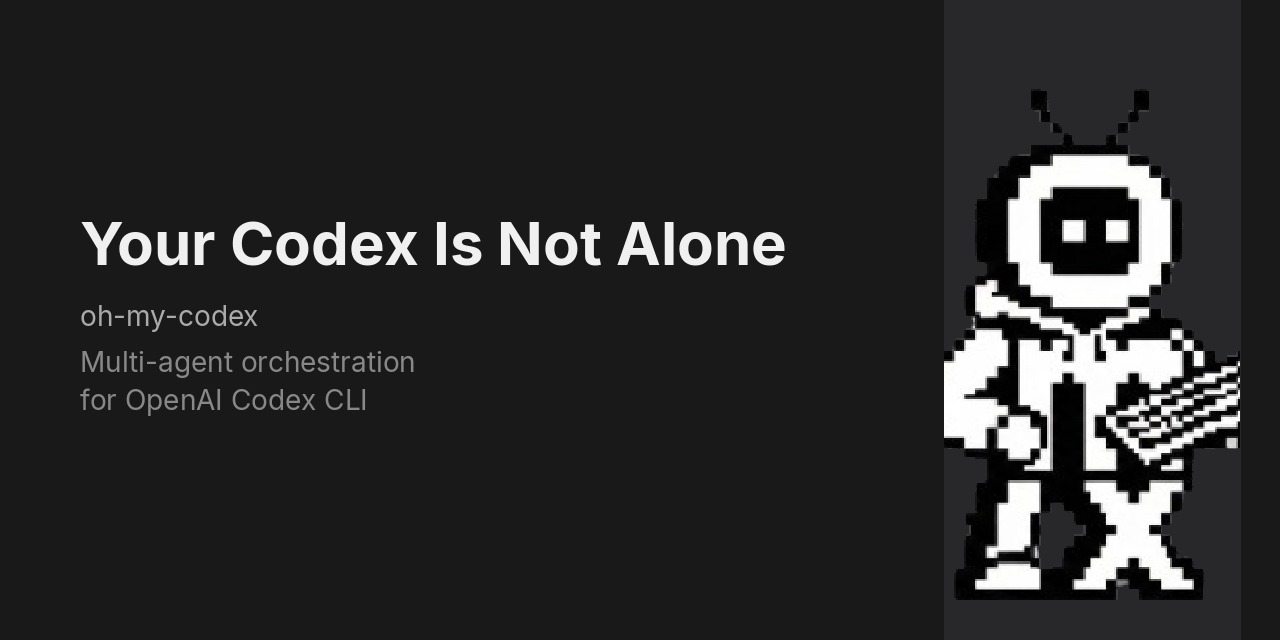
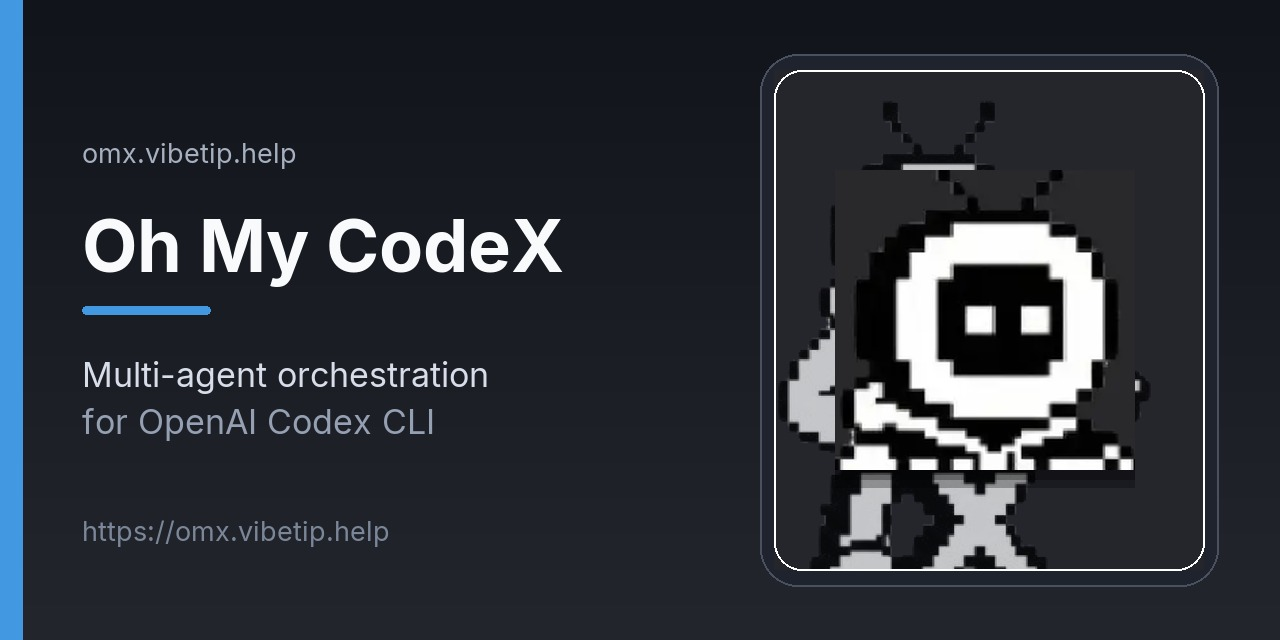
docs: update social preview thumbnails

diff --git a/apps/claudecode/src/app/layout.tsx b/apps/claudecode/src/app/layout.tsx
@@ -7,6 +7,28 @@ export const metadata: Metadata = {
   title: 'Oh My ClaudeCode — Docs',
   description:
     'Official documentation for oh-my-claudecode, a multi-agent orchestration layer for Claude Code.',
+  openGraph: {
+    title: 'Oh My ClaudeCode — Docs',
+    description:
+      'Official documentation for oh-my-claudecode, a multi-agent orchestration layer for Claude Code.',
+    type: 'website',
+    url: 'https://omc.vibetip.help',
+    images: [
+      {
+        url: 'https://omc.vibetip.help/images/omc-social-preview.jpg',
+        width: 1280,
+        height: 640,
+        alt: 'Oh My ClaudeCode documentation preview',
+      },
+    ],
+  },
+  twitter: {
+    card: 'summary_large_image',
+    title: 'Oh My ClaudeCode — Docs',
+    description:
+      'Official documentation for oh-my-claudecode, a multi-agent orchestration layer for Claude Code.',
+    images: ['https://omc.vibetip.help/images/omc-social-preview.jpg'],
+  },
 };
 
 export default function RootLayout({ children }: { children: ReactNode }) {

diff --git a/apps/codex/src/app/layout.tsx b/apps/codex/src/app/layout.tsx
@@ -7,6 +7,28 @@ export const metadata: Metadata = {
   title: 'Oh My CodeX — Docs',
   description:
     'Official documentation for oh-my-codex, a multi-agent orchestration layer for OpenAI Codex CLI.',
+  openGraph: {
+    title: 'Oh My CodeX — Docs',
+    description:
+      'Official documentation for oh-my-codex, a multi-agent orchestration layer for OpenAI Codex CLI.',
+    type: 'website',
+    url: 'https://omx.vibetip.help',
+    images: [
+      {
+        url: 'https://omx.vibetip.help/images/omx-social-preview.jpg',
+        width: 1280,
+        height: 640,
+        alt: 'Oh My CodeX documentation preview',
+      },
+    ],
+  },
+  twitter: {
+    card: 'summary_large_image',
+    title: 'Oh My CodeX — Docs',
+    description:
+      'Official documentation for oh-my-codex, a multi-agent orchestration layer for OpenAI Codex CLI.',
+    images: ['https://omx.vibetip.help/images/omx-social-preview.jpg'],
+  },
   icons: {
     // Keep the browser icon aligned with the public OMX logo asset.
     icon: '/icon.png',

diff --git a/apps/gajae-code/src/app/layout.tsx b/apps/gajae-code/src/app/layout.tsx
@@ -7,6 +7,28 @@ export const metadata: Metadata = {
   title: 'Gajae-Code - Docs',
   description:
     'Official documentation for Gajae-Code, a red-claw coding-agent harness (gjc).',
+  openGraph: {
+    title: 'Gajae-Code - Docs',
+    description:
+      'Official documentation for Gajae-Code, a red-claw coding-agent harness (gjc).',
+    type: 'website',
+    url: 'https://gjc.vibetip.help',
+    images: [
+      {
+        url: 'https://gjc.vibetip.help/images/gjc-social-preview.jpg',
+        width: 1280,
+        height: 640,
+        alt: 'Gajae-Code documentation preview',
+      },
+    ],
+  },
+  twitter: {
+    card: 'summary_large_image',
+    title: 'Gajae-Code - Docs',
+    description:
+      'Official documentation for Gajae-Code, a red-claw coding-agent harness (gjc).',
+    images: ['https://gjc.vibetip.help/images/gjc-social-preview.jpg'],
+  },
   icons: {
     icon: '/icon.png',
     shortcut: '/icon.png',

diff --git a/apps/lzx/src/app/layout.tsx b/apps/lzx/src/app/layout.tsx
@@ -7,6 +7,28 @@ export const metadata: Metadata = {
   title: 'LazyCodex - Docs',
   description:
     'Official documentation for LazyCodex (LZX), the OmO agent harness packaged for Codex.',
+  openGraph: {
+    title: 'LazyCodex - Docs',
+    description:
+      'Official documentation for LazyCodex (LZX), the OmO agent harness packaged for Codex.',
+    type: 'website',
+    url: 'https://lzx.vibetip.help',
+    images: [
+      {
+        url: 'https://lzx.vibetip.help/images/lzx-social-preview.jpg',
+        width: 1280,
+        height: 640,
+        alt: 'LazyCodex documentation preview',
+      },
+    ],
+  },
+  twitter: {
+    card: 'summary_large_image',
+    title: 'LazyCodex - Docs',
+    description:
+      'Official documentation for LazyCodex (LZX), the OmO agent harness packaged for Codex.',
+    images: ['https://lzx.vibetip.help/images/lzx-social-preview.jpg'],
+  },
   icons: {
     icon: '/icon.png',
     shortcut: '/icon.png',

diff --git a/apps/openagent/src/app/layout.tsx b/apps/openagent/src/app/layout.tsx
@@ -7,6 +7,28 @@ export const metadata: Metadata = {
   title: 'Oh My OpenAgent - Docs',
   description:
     'Official documentation for Oh My OpenAgent, a multi-model orchestration harness for OpenCode.',
+  openGraph: {
+    title: 'Oh My OpenAgent - Docs',
+    description:
+      'Official documentation for Oh My OpenAgent, a multi-model orchestration harness for OpenCode.',
+    type: 'website',
+    url: 'https://omo.vibetip.help',
+    images: [
+      {
+        url: 'https://omo.vibetip.help/images/omo-social-preview.jpg',
+        width: 1280,
+        height: 640,
+        alt: 'Oh My OpenAgent documentation preview',
+      },
+    ],
+  },
+  twitter: {
+    card: 'summary_large_image',
+    title: 'Oh My OpenAgent - Docs',
+    description:
+      'Official documentation for Oh My OpenAgent, a multi-model orchestration harness for OpenCode.',
+    images: ['https://omo.vibetip.help/images/omo-social-preview.jpg'],
+  },
   icons: {
     icon: '/icon.svg',
     shortcut: '/icon.svg',

diff --git a/scripts/make-social-previews.py b/scripts/make-social-previews.py
@@ -1,0 +1,170 @@
+#!/usr/bin/env python3
+"""Generate social preview thumbnails for all docs apps.
+
+The output images are shared by OpenGraph/Twitter metadata and the docs index
+pages. They intentionally use app-local public assets so the cards stay
+reproducible after upstream asset syncs.
+"""
+
+from __future__ import annotations
+
+from dataclasses import dataclass
+from pathlib import Path
+
+from PIL import Image, ImageDraw, ImageFont, ImageOps
+
+
+ROOT = Path(__file__).resolve().parent.parent
+FONT_DIR = ROOT / "apps" / "codex" / "scripts" / "fonts"
+W, H = 1280, 640
+
+
+@dataclass(frozen=True)
+class Card:
+    app: str
+    output: str
+    title: str
+    kicker: str
+    line1: str
+    line2: str
+    accent: tuple[int, int, int]
+    icon: str
+    image: str | None = None
+    url: str = ""
+
+
+CARDS = [
+    Card(
+        app="codex",
+        output="omx-social-preview.jpg",
+        title="Oh My CodeX",
+        kicker="omx.vibetip.help",
+        line1="Multi-agent orchestration",
+        line2="for OpenAI Codex CLI",
+        accent=(66, 153, 225),
+        icon="public/logo.png",
+        image="public/images/omx-character.jpg",
+        url="https://omx.vibetip.help",
+    ),
+    Card(
+        app="claudecode",
+        output="omc-social-preview.jpg",
+        title="Oh My ClaudeCode",
+        kicker="omc.vibetip.help",
+        line1="Multi-agent orchestration",
+        line2="for Claude Code",
+        accent=(217, 119, 87),
+        icon="public/logo.png",
+        image="public/images/omc-character.jpg",
+        url="https://omc.vibetip.help",
+    ),
+    Card(
+        app="openagent",
+        output="omo-social-preview.jpg",
+        title="Oh My OpenAgent",
+        kicker="omo.vibetip.help",
+        line1="Multi-model orchestration",
+        line2="for OpenCode and Codex Light",
+        accent=(115, 98, 255),
+        icon="public/images/omo-logo.png",
+        url="https://omo.vibetip.help",
+    ),
+    Card(
+        app="gajae-code",
+        output="gjc-social-preview.jpg",
+        title="Gajae-Code",
+        kicker="gjc.vibetip.help",
+        line1="Red-claw coding-agent harness",
+        line2="for crisp plans and durable verification",
+        accent=(229, 72, 77),
+        icon="public/images/character.png",
+        url="https://gjc.vibetip.help",
+    ),
+    Card(
+        app="lzx",
+        output="lzx-social-preview.jpg",
+        title="LazyCodex",
+        kicker="lzx.vibetip.help",
+        line1="OmO Light Edition",
+        line2="for Codex planning and verification",
+        accent=(34, 197, 94),
+        icon="public/logo.png",
+        image="public/images/hero.png",
+        url="https://lzx.vibetip.help",
+    ),
+]
+
+
+def font(name: str, size: int) -> ImageFont.FreeTypeFont:
+    return ImageFont.truetype(str(FONT_DIR / name), size)
+
+
+TITLE = font("Inter-Bold.ttf", 72)
+KICKER = font("Inter-Regular.ttf", 27)
+BODY = font("Inter-Regular.ttf", 34)
+
+
+def cover_image(path: Path, size: tuple[int, int]) -> Image.Image:
+    src = Image.open(path).convert("RGBA")
+    return ImageOps.fit(src, size, method=Image.Resampling.LANCZOS, centering=(0.5, 0.5))
+
+
+def contain_image(path: Path, max_size: tuple[int, int]) -> Image.Image:
+    src = Image.open(path).convert("RGBA")
+    scale = min(max_size[0] / src.width, max_size[1] / src.height)
+    size = (max(1, int(src.width * scale)), max(1, int(src.height * scale)))
+    return src.resize(size, Image.Resampling.LANCZOS)
+
+
+def add_soft_shadow(canvas: Image.Image, xy: tuple[int, int], img: Image.Image) -> None:
+    x, y = xy
+    shadow = Image.new("RGBA", img.size, (0, 0, 0, 0))
+    alpha = img.getchannel("A")
+    shadow.putalpha(alpha.point(lambda value: int(value * 0.28)))
+    for offset in ((0, 10), (0, 18)):
+        canvas.alpha_composite(shadow, (x + offset[0], y + offset[1]))
+    canvas.alpha_composite(img, xy)
+
+
+def make_card(card: Card) -> Path:
+    app_root = ROOT / "apps" / card.app
+    out = app_root / "public" / "images" / card.output
+
+    canvas = Image.new("RGBA", (W, H), (15, 18, 24, 255))
+    draw = ImageDraw.Draw(canvas)
+
+    for y in range(H):
+        shade = int(18 + (y / H) * 18)
+        draw.line([(0, y), (W, y)], fill=(shade, shade + 2, shade + 9, 255))
+
+    draw.rectangle([0, 0, 22, H], fill=card.accent + (255,))
+    draw.rounded_rectangle([760, 54, 1218, 586], radius=38, fill=(31, 35, 45, 255), outline=(73, 81, 96, 255), width=2)
+
+    if card.image:
+        image = cover_image(app_root / card.image, (430, 500))
+        image.putalpha(190)
+        canvas.alpha_composite(image, (774, 70))
+        draw.rounded_rectangle([774, 70, 1204, 570], radius=28, outline=(255, 255, 255, 32), width=2)
+
+    icon = contain_image(app_root / card.icon, (300, 300))
+    add_soft_shadow(canvas, (835 + (300 - icon.width) // 2, 170 + (300 - icon.height) // 2), icon)
+
+    draw.text((82, 136), card.kicker, font=KICKER, fill=(166, 176, 191, 255))
+    draw.text((82, 202), card.title, font=TITLE, fill=(248, 250, 252, 255))
+    draw.rounded_rectangle([82, 306, 210, 314], radius=4, fill=card.accent + (255,))
+    draw.text((82, 354), card.line1, font=BODY, fill=(216, 222, 233, 255))
+    draw.text((82, 401), card.line2, font=BODY, fill=(149, 160, 178, 255))
+    draw.text((82, 514), card.url, font=KICKER, fill=(123, 135, 153, 255))
+
+    canvas.convert("RGB").save(out, "JPEG", quality=92, optimize=True)
+    return out
+
+
+def main() -> None:
+    for card in CARDS:
+        out = make_card(card)
+        print(f"wrote {out.relative_to(ROOT)} ({out.stat().st_size} bytes)")
+
+
+if __name__ == "__main__":
+    main()